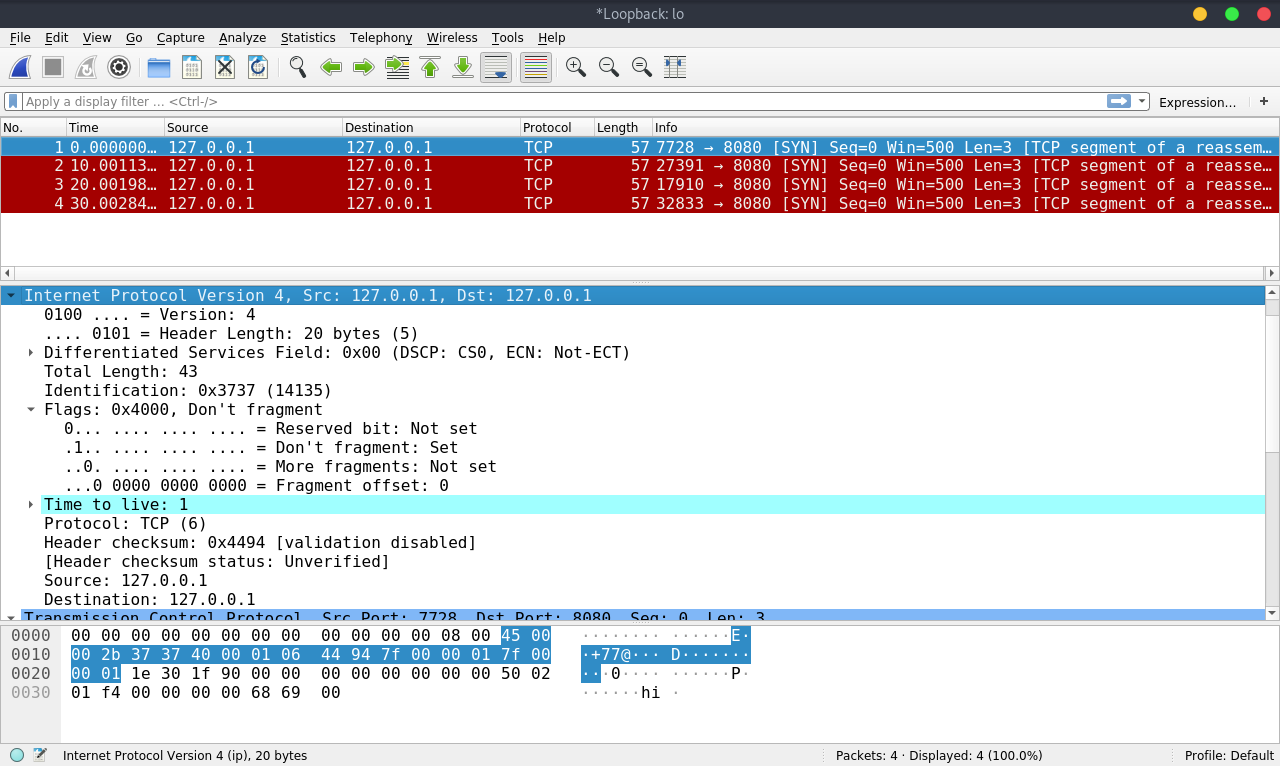
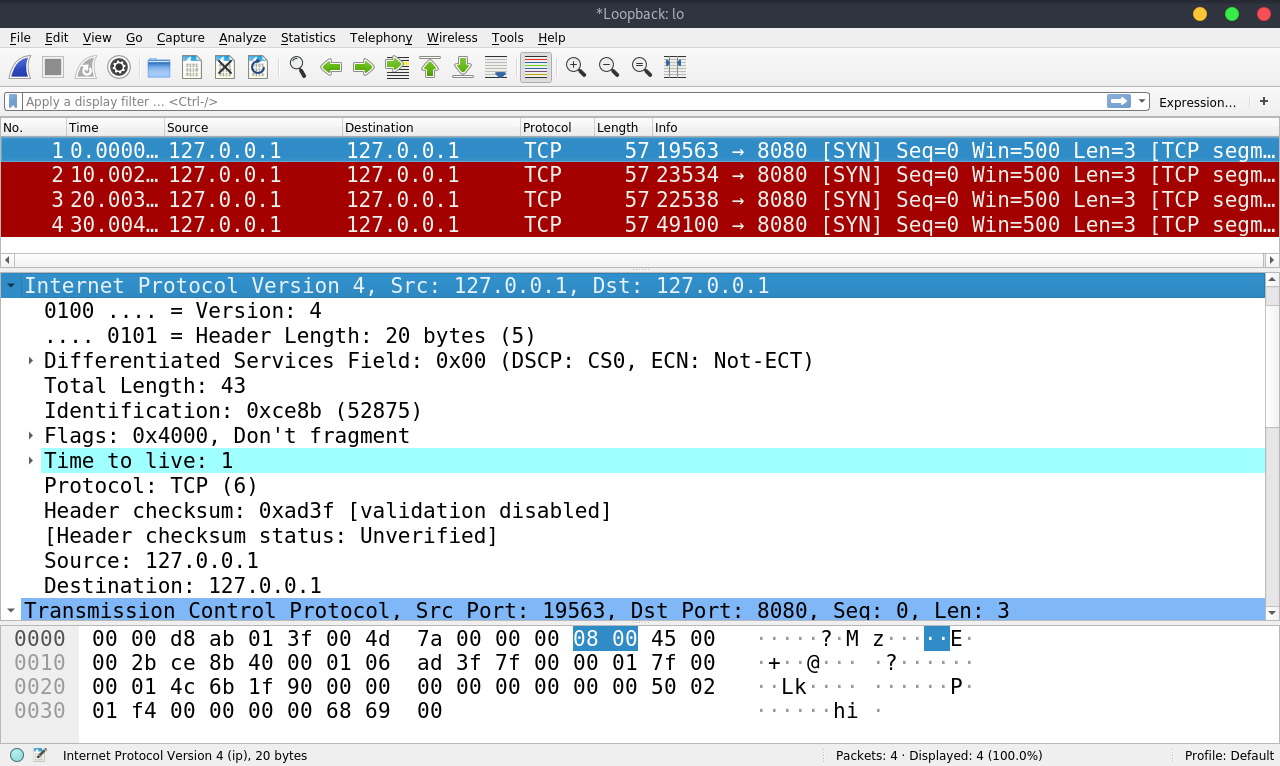
[fix] チェックサムを追加

diff --git a/slide/index.html b/slide/index.html
@@ -232,7 +232,7 @@ ISOによって制定された。
 
 >>>
 ### 3. インターネット層
-ネットワーク同士の通信。  
+複数のネットワークを介した通信。  
 通信経路の選択（ルーティング）
 
 例： **IPv4**、IPv6、ARP
@@ -2892,6 +2892,9 @@ int Send(int soc){
     AddTCPHeader(&packet, &tcp);
     AddData(&packet, data, sizeof(data));
 
+     // チェックサム
+    int len = ntohs(packet.ip -> tot_len) - packet.ip -> ihl * 4;
+    tcp.check = checksum3(packet.ip, (unsigned char *)packet.tcp, len);
 
     // 表示
     printf("text:\n");
@@ -3046,6 +3049,11 @@ GenerateEthernetPacket(&packet, &eh);
 AddIPHeader(&packet, &ip);
 AddTCPHeader(&packet, &tcp);
 AddData(&packet, data, sizeof(data));
+
+ // チェックサム
+int len = ntohs(packet.ip -> tot_len) - packet.ip -> ihl * 4;
+tcp.check = checksum3(packet.ip, (unsigned char *)packet.tcp, len);
+
 
 ```
 

diff --git a/lib/checksum.c b/lib/checksum.c
@@ -178,3 +178,16 @@ unsigned short  sum;
 	}
 }
 
+u_int16_t checksum3(struct iphdr *iphdr,unsigned char *data,int len)
+{
+struct pseudo_ip        p_ip;
+unsigned short  sum;
+
+        memset(&p_ip,0,sizeof(struct pseudo_ip));
+        p_ip.ip_src.s_addr=iphdr->saddr;
+        p_ip.ip_dst.s_addr=iphdr->daddr;
+        p_ip.ip_p=iphdr->protocol;
+        p_ip.ip_len=htons(len);
+
+        sum=checksum2((unsigned char *)&p_ip,sizeof(struct pseudo_ip),data,len);
+}

diff --git a/lib/checksum.h b/lib/checksum.h
@@ -14,3 +14,5 @@ u_int16_t checksum(unsigned char *data,int len);
 u_int16_t checksum2(unsigned char *data1,int len1,unsigned char *data2,int len2);
 int checkIPchecksum(struct iphdr *iphdr, unsigned char *option, int optionLen);
 int checkIPDATAchecksum(struct iphdr *iphdr,unsigned char *data,int len);
+
+u_int16_t checksum3(struct iphdr *iphdr,unsigned char *data,int len);
